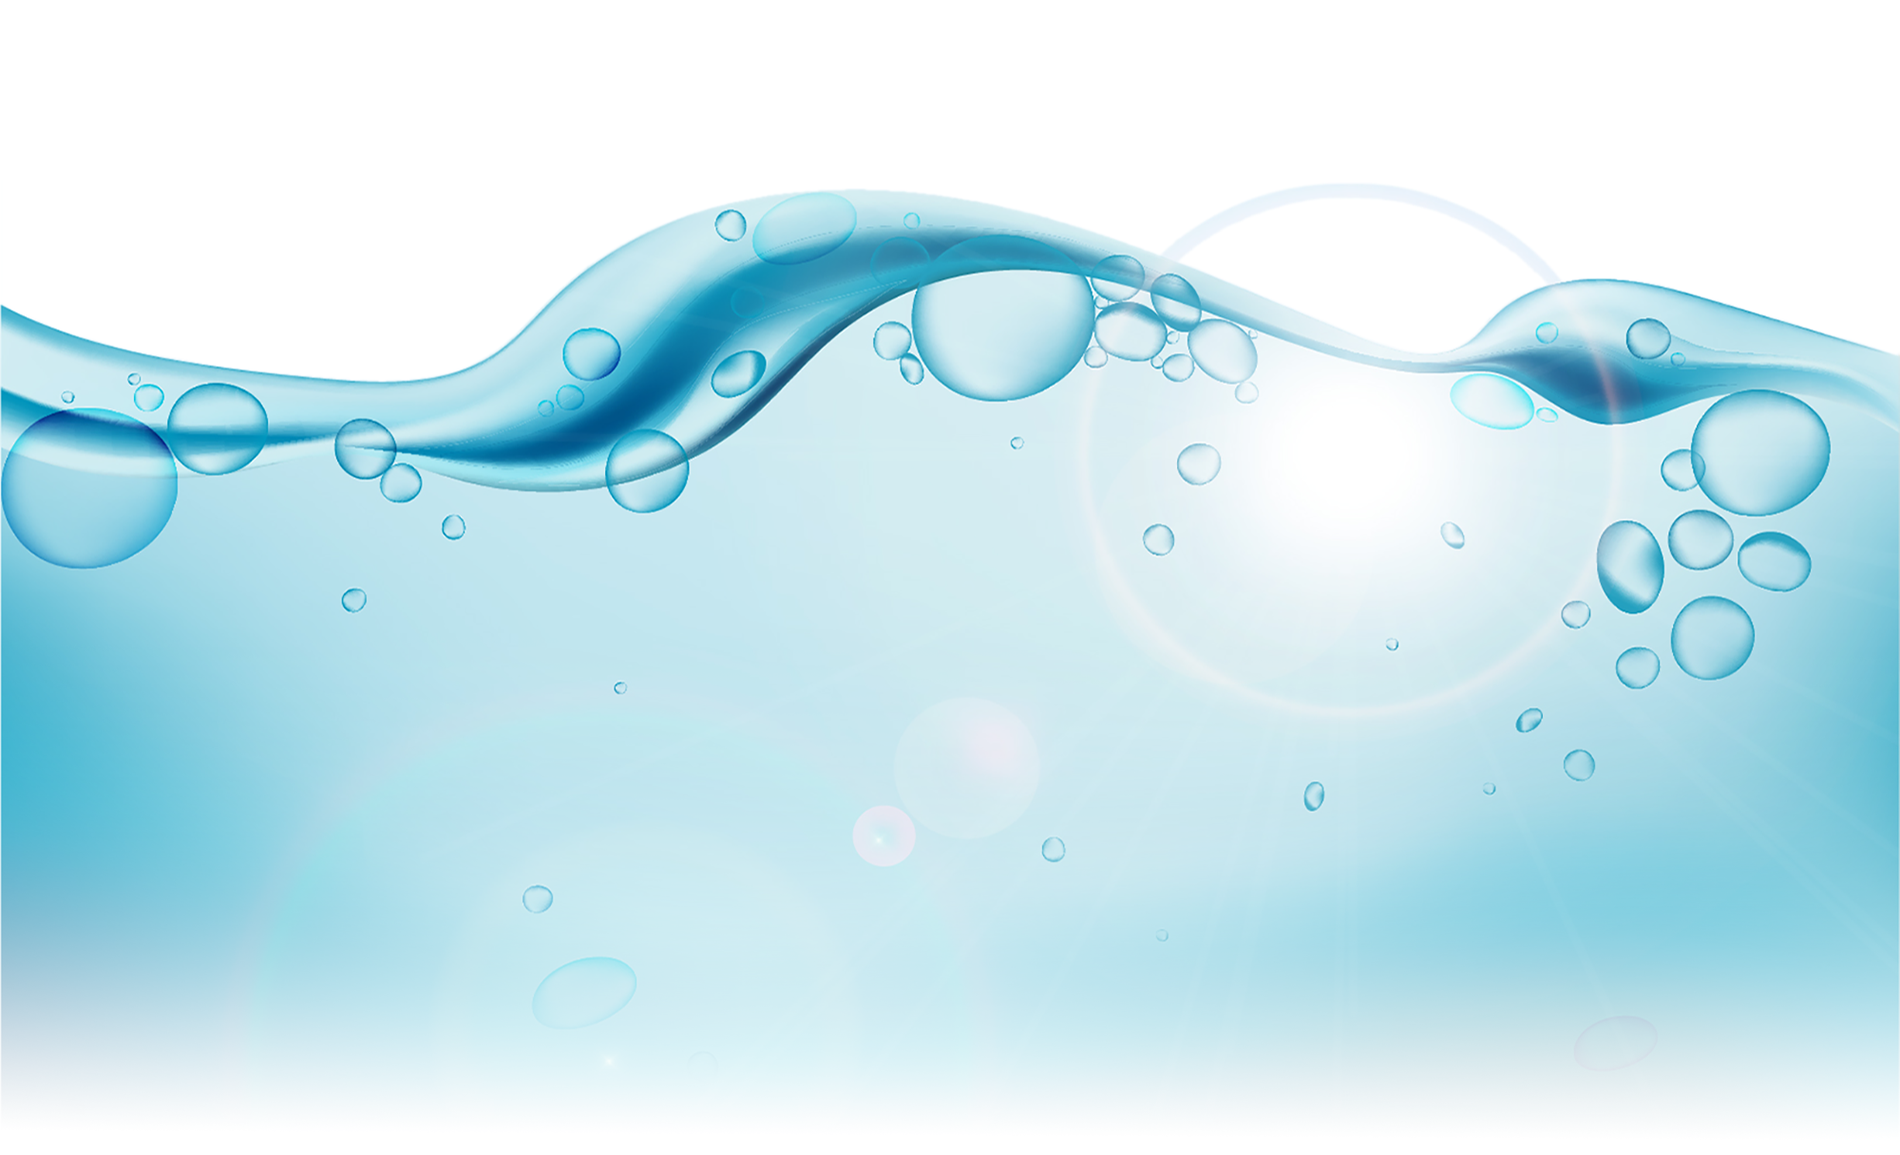
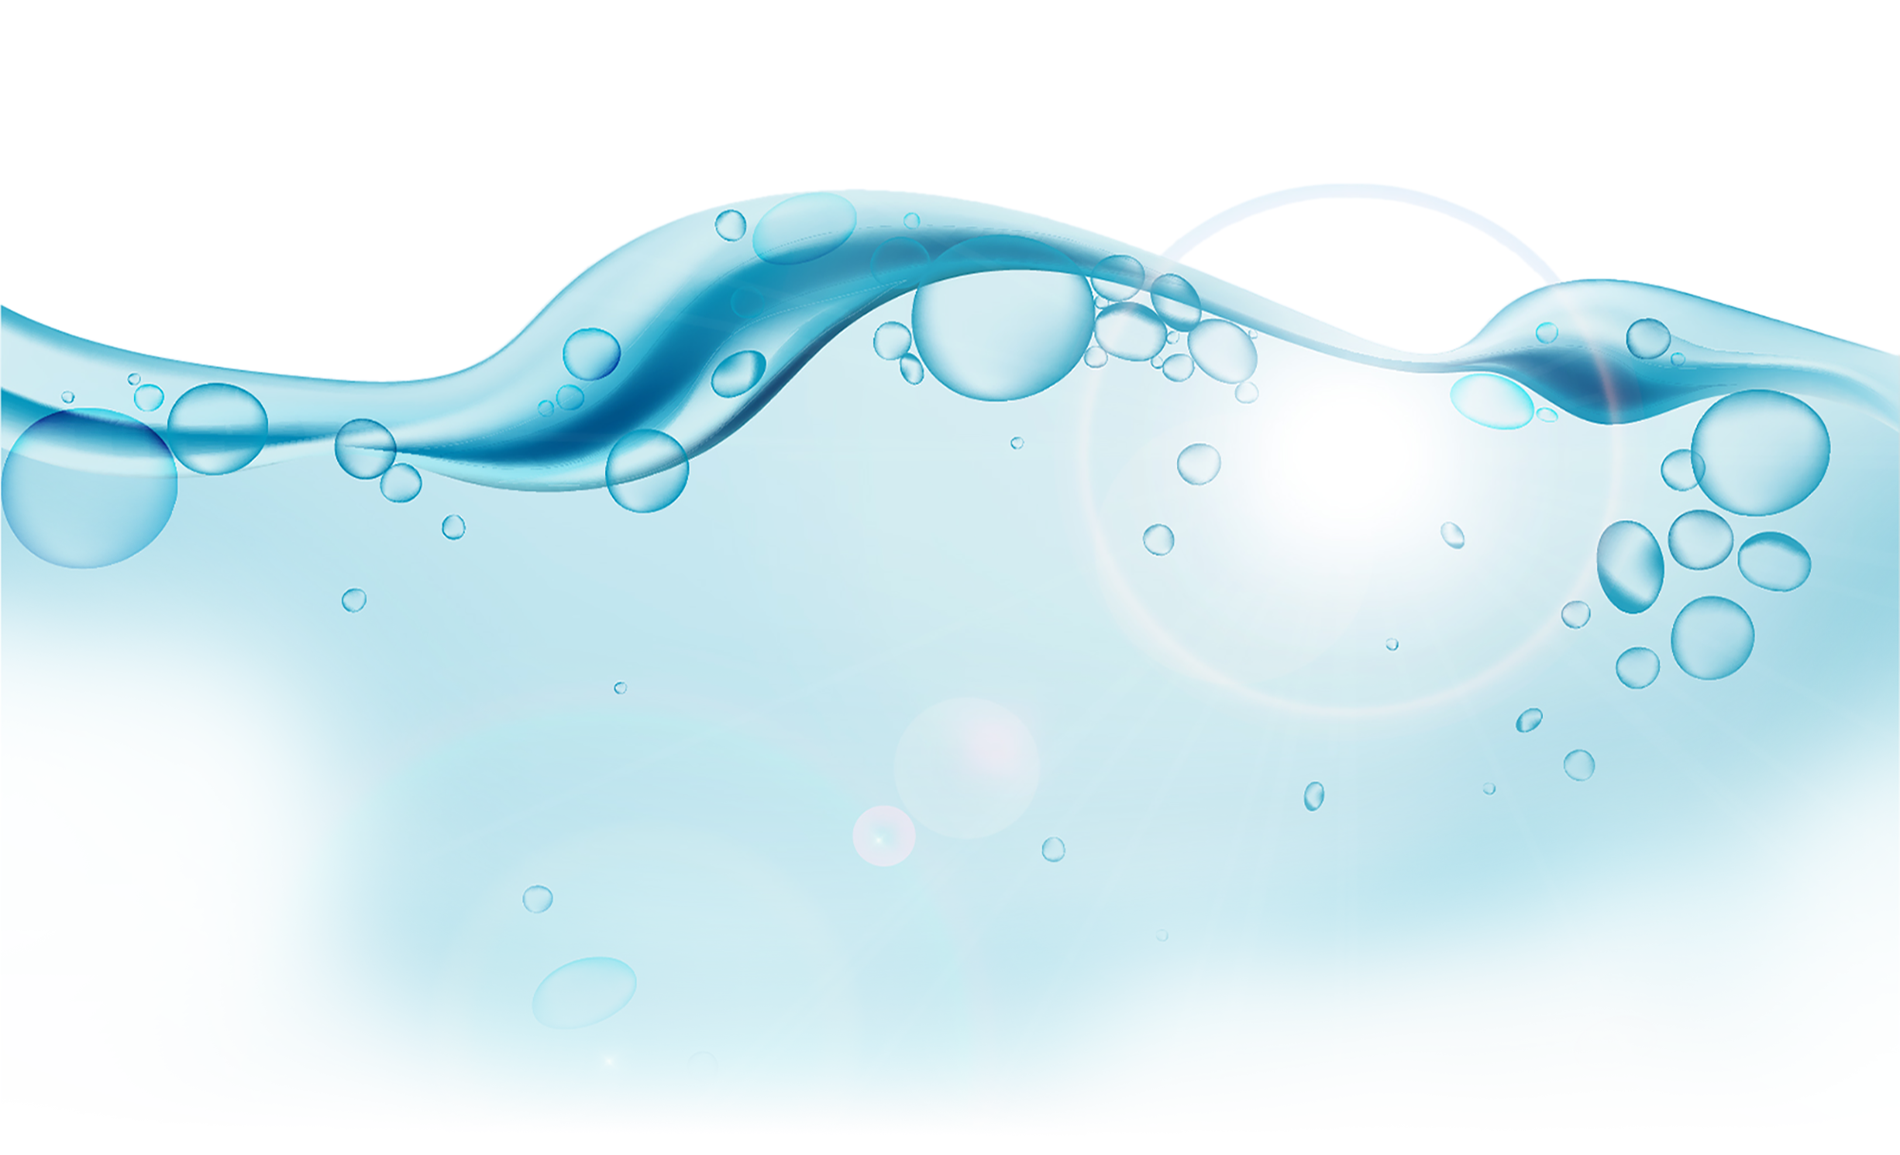
Contact Background Gradient

Changed region(s): [[0.5589, 0.4675, 1.0, 0.9662], [0.0, 0.4052, 0.2174, 0.9351]]

diff --git a/css/style.css b/css/style.css
@@ -286,7 +286,7 @@ Contact Page
 	margin: 0;
 	height: auto;
 	overflow: auto;
-	background: rgba(69, 184, 196, 90%) url(../images/bblfade.png) no-repeat top left;
+	background: rgba(69, 184, 196, 70%) url(../images/bblfade.png) no-repeat top left;
 	background-size: 100%;
 }
 
